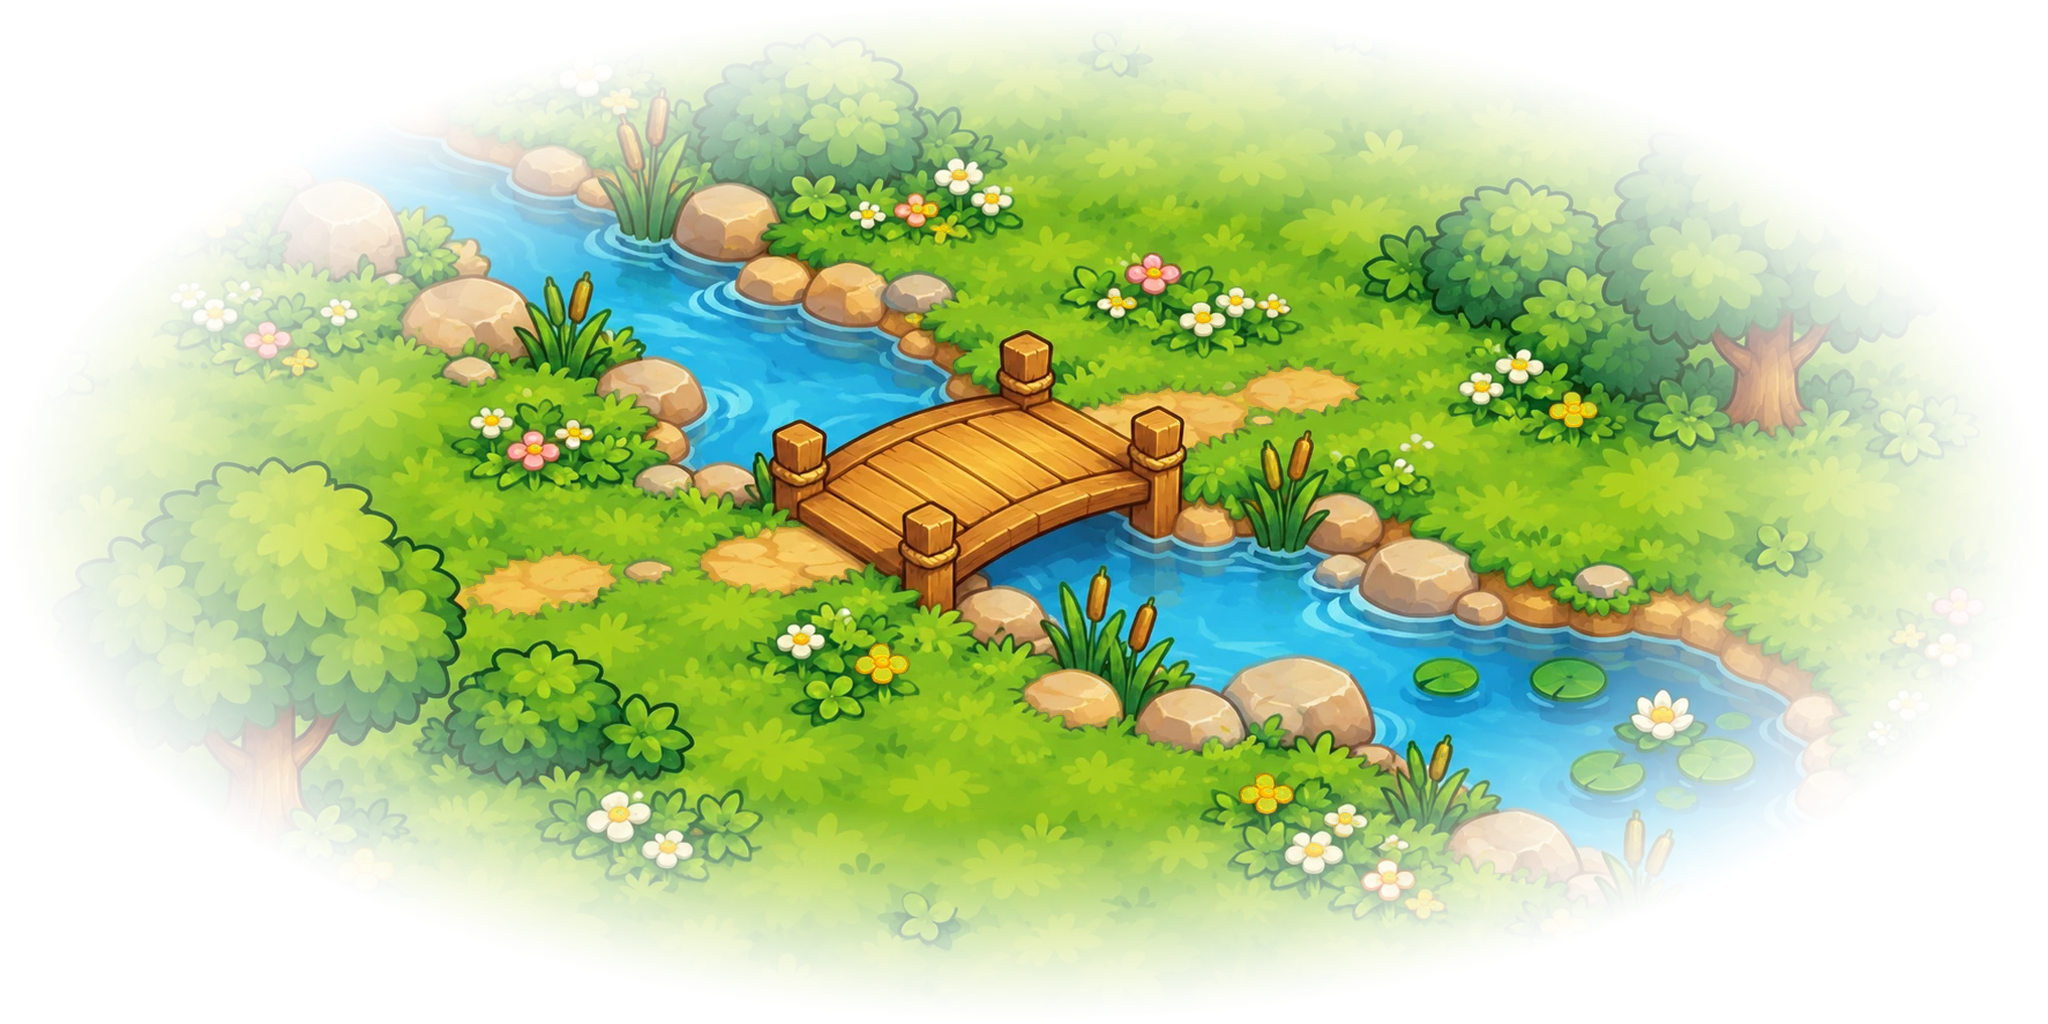
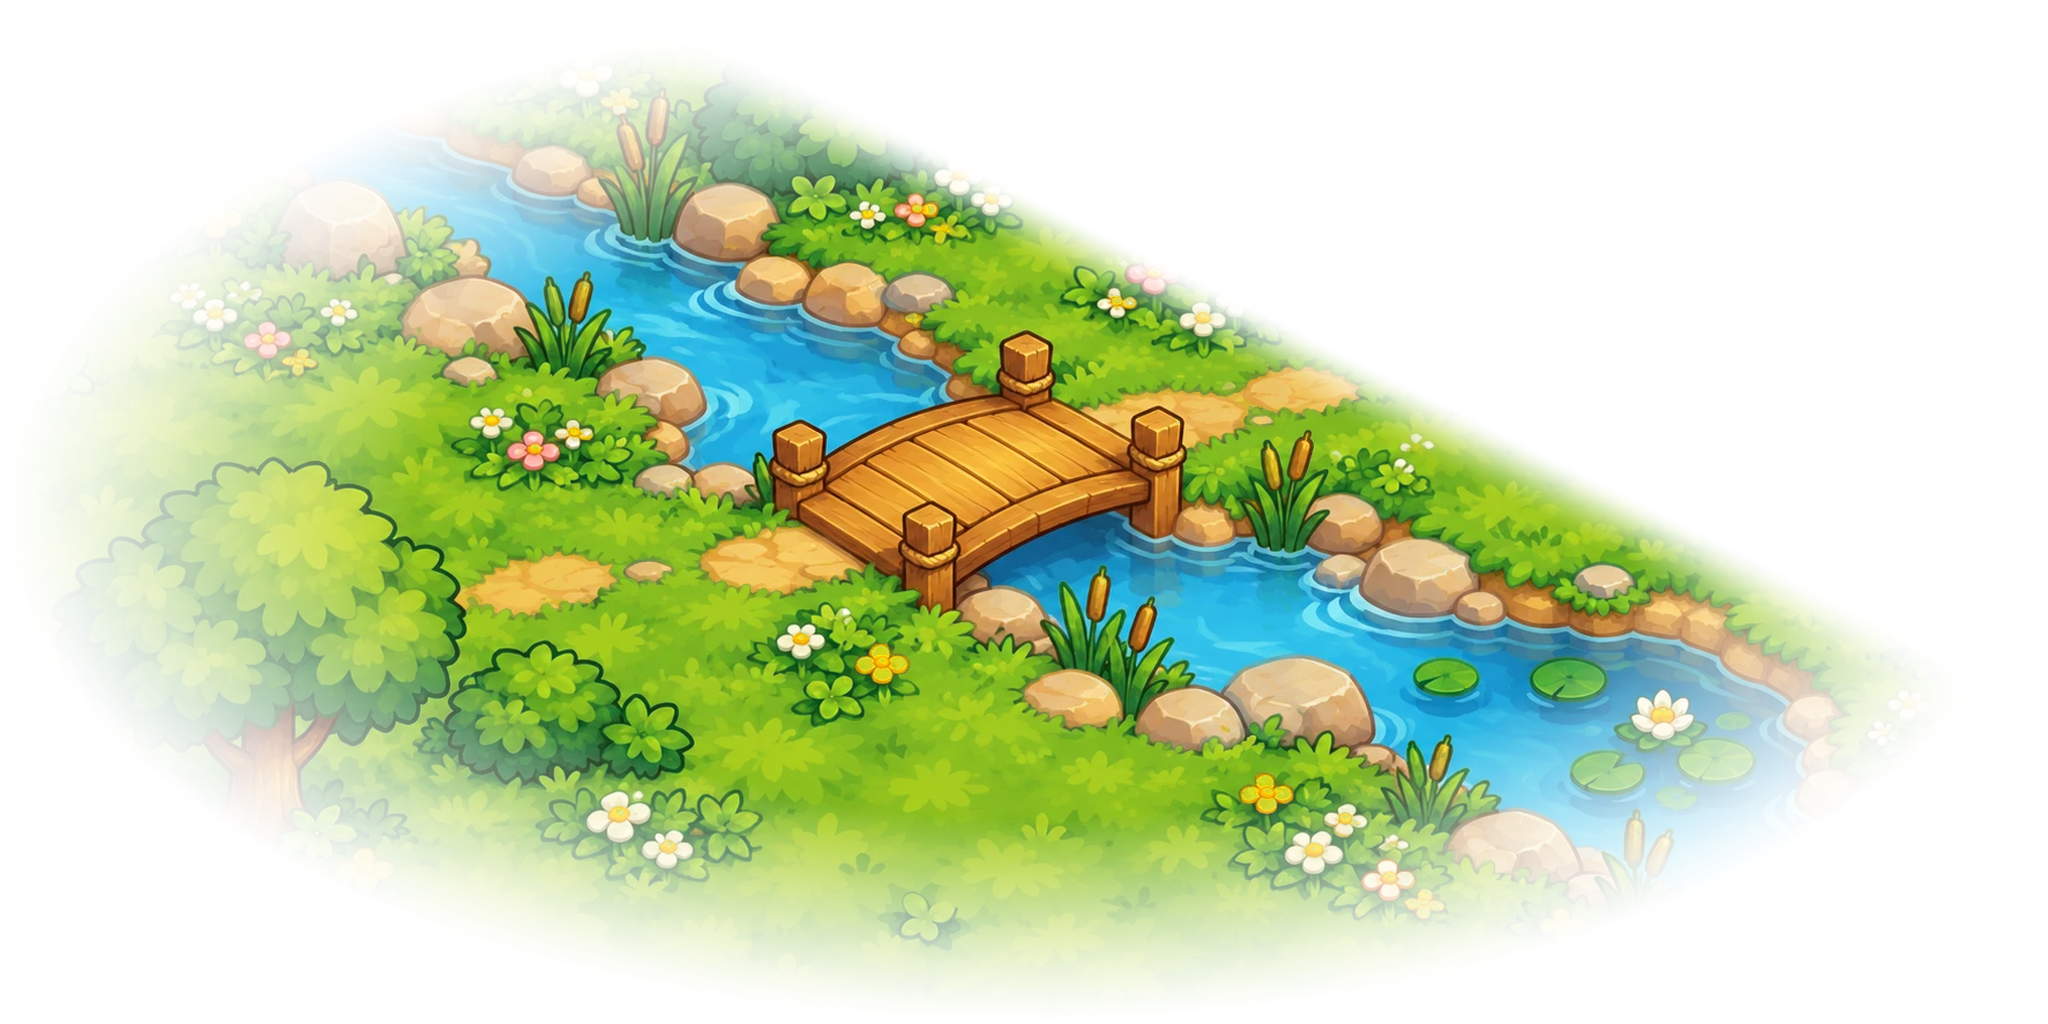
Hayalet ağaç düzeltmesi

Changed region(s): [[0.3438, 0.0312, 0.9688, 0.6562]]

diff --git a/js/koy.js b/js/koy.js
@@ -79,6 +79,7 @@ class Koy extends Phaser.Scene {
     this.load.image('manzara_dag', 'assets/manzara/dag.png'); // ormanın ardındaki tepeler ve dağlar
     this.load.image('manzara_yan', 'assets/manzara/yan.png'); // sol ve sağ: çayır, korular, uzak çiftlik
     this.load.image('manzara_on', 'assets/manzara/on.png'); // ön: dere, sazlıklar, tahta köprü
+    this.load.image('manzara_on_sag', 'assets/manzara/on_sag.png'); // sağ öndeki dere (aynalı)
     this.load.image('manzara_on_kopru', 'assets/manzara/on_kopru.png'); // dere köprüsü (akıntının üstünde)
     this.load.json('manzara_on_su', 'assets/manzara/on_su.json'); // derenin orta çizgisi ve suyun iç noktaları
     for (const ad of KIR_CICEKLERI) this.load.image('kircicek_' + ad, `assets/kircicek/${ad}.png`);
@@ -351,7 +352,8 @@ class Koy extends Phaser.Scene {
     if (this.textures.exists('manzara_on')) {
       const dereler = [];
       for (const [i, j, ayna] of [[9, 28, false], [28, 13, true]]) { // sağdaki kaydırıldı: iki köprü simetrik görünmesin
-        const p = izoEkran(i, j), o = this.add.image(p.x, p.y, 'manzara_on').setFlipX(ayna).setDepth(-99997);
+        // Sağdaki doku önceden aynalanmış ve köyün içine taşan kısmı kesilmiş ayrı görsel (tools/manzara_temizle.py)
+        const p = izoEkran(i, j), o = this.add.image(p.x, p.y, ayna ? 'manzara_on_sag' : 'manzara_on').setDepth(-99997);
         o.setScale(2200 / o.width);
         dereler.push({ o, ayna });
       }

diff --git a/js/su.js b/js/su.js
@@ -3,6 +3,8 @@
 // 2) Akıntıya kapılmış yapraklar: derenin orta çizgisi boyunca süzülür, hafifçe döner ve sallanır.
 // 3) Pırıltılar: güneş suda ara sıra parlar.
 // Suyun iç noktaları ve orta çizgi assets/manzara/on_su.json'dan (görselden çıkarıldı; tools yerine tek seferlik betikle).
+import { HARITA, ekranIzo } from './izo.js';
+
 const r = (a, b) => a + Math.random() * (b - a);
 const EGIM = Math.atan2(0.48, 1); // derenin görseldeki genel akış yönü (sol üstten sağ alta)
 
@@ -32,7 +34,9 @@ export function dereKur(sahne, dereler) {
 
   for (const { o, ayna } of dereler) {
     const dunya = ([u, v]) => ({ x: o.x + ((ayna ? 1 - u : u) - 0.5) * o.displayWidth, y: o.y + (v - 0.5) * o.displayHeight });
-    const noktalar = (veri.noktalar || []).map(dunya);
+    // Köyün içine taşan kısmı kesildiği için (tools/manzara_temizle.py) suyun sadece görünür kalan noktaları kullanılır
+    const gorunur = (p) => { const t = ekranIzo(p.x, p.y); return Math.max(-t.i, -t.j, t.i - HARITA, t.j - HARITA) > 6; };
+    const noktalar = (veri.noktalar || []).map(dunya).filter(gorunur);
     const yol = (veri.yol || []).map(dunya);
     if (ayna) yol.reverse();
     const aci = ayna ? Math.PI - EGIM : EGIM, yon = { x: Math.cos(aci), y: Math.sin(aci) };
